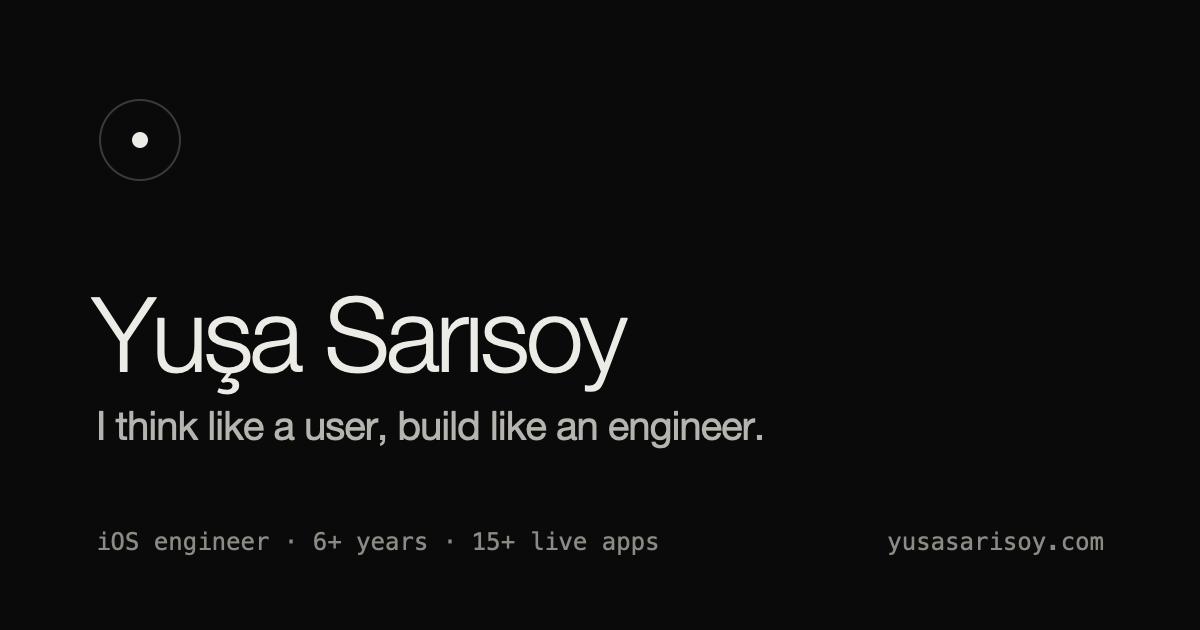
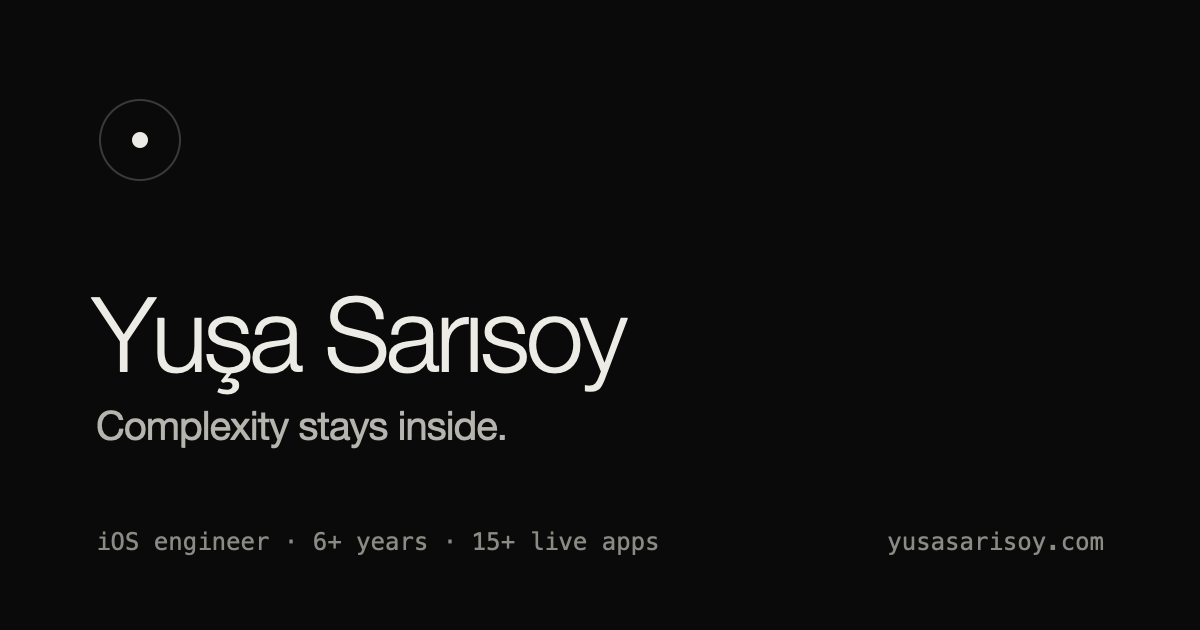
Lead with Complexity stays inside on the first slide and share image

Changed region(s): [[0.0617, 0.6333, 0.6475, 0.7238]]

diff --git a/index.html b/index.html
@@ -314,8 +314,8 @@ body.still .still-layer .dot{animation:breathe 10s ease-in-out infinite}
   <section class="wrap hero" data-entry>
     <button type="button" class="plate" id="plate" data-i-aria="plate_aria" aria-label="Show the next statement" aria-live="polite">
       <span class="mono fade" id="slideLabel" style="color:var(--dim)">Product-Minded iOS Engineer</span>
-      <span class="plate-title" id="slideTitle">I think like a user, build like an engineer.</span>
-      <span class="plate-sub fade" id="slideSub">Good code matters, but what the user feels is what counts.</span>
+      <span class="plate-title" id="slideTitle">Complexity stays inside.</span>
+      <span class="plate-sub fade" id="slideSub">Solid engineering should make the experience clearer, simpler, and more dependable.</span>
     </button>
     <div class="caption mono">
       <span id="slideCounter">1 / 3</span>
@@ -499,7 +499,7 @@ const S = {
     cv_foot: "Typeset from yusasarisoy.com",
     now: "now", range: " to ",
     slides: [
-      { label: "Product-Minded iOS Engineer", title: "I think like a user, build like an engineer.", sub: "Good code matters, but what the user feels is what counts." },
+      { label: "Product-Minded iOS Engineer", title: "Complexity stays inside.", sub: "Solid engineering should make the experience clearer, simpler, and more dependable." },
       { label: "Profile", title: "Mobile experiences that feel like products and scale like systems.", sub: "Product teams across İstanbul and Berlin: consumer apps, accessibility tools, financial flows and content platforms." },
       { label: "Approach", title: "iOS is my strong suit.", sub: "But I choose what the product requires. The tool follows the need." }
     ]
@@ -541,7 +541,7 @@ const S = {
     cv_foot: "yusasarisoy.com'dan dizildi",
     now: "bugün", range: " - ",
     slides: [
-      { label: "Ürün Odaklı iOS Mühendisi", title: "Kullanıcı gibi düşünür, mühendis gibi uygularım.", sub: "İyi kod yazmak gerekir ama asıl ölçüt kullanıcıya ne hissettirdiğim." },
+      { label: "Ürün Odaklı iOS Mühendisi", title: "Karmaşıklık içeride kalmalı.", sub: "Sağlam bir mühendislik altyapısı, kullanıcıya daha anlaşılır ve daha güvenilir bir deneyim sunmalı." },
       { label: "Profil", title: "Ürün gibi hissettiren. Sistem gibi büyüyen.", sub: "İstanbul ve Berlin'de ürün ekipleriyle: tüketici uygulamaları, erişilebilirlik araçları, finansal akışlar ve içerik platformları." },
       { label: "Yaklaşım", title: "iOS güçlü tarafım.", sub: "Ama ürün neyi gerektiriyorsa onu seçerim. Araç, ihtiyaca göre şekillenir." }
     ]
